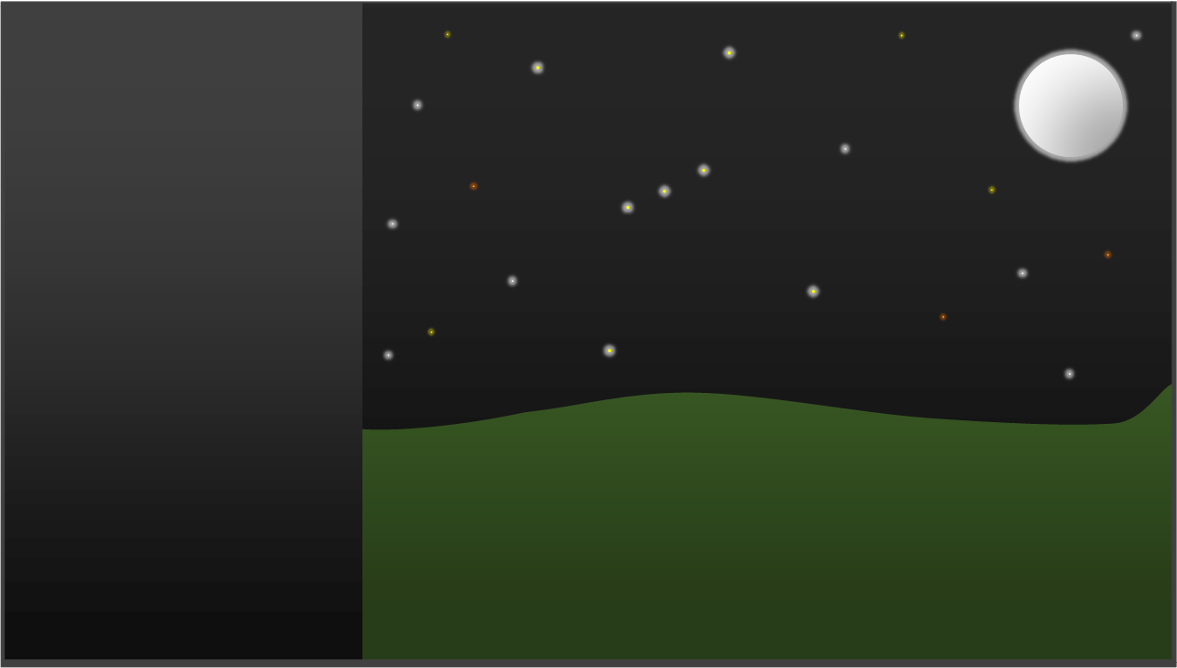
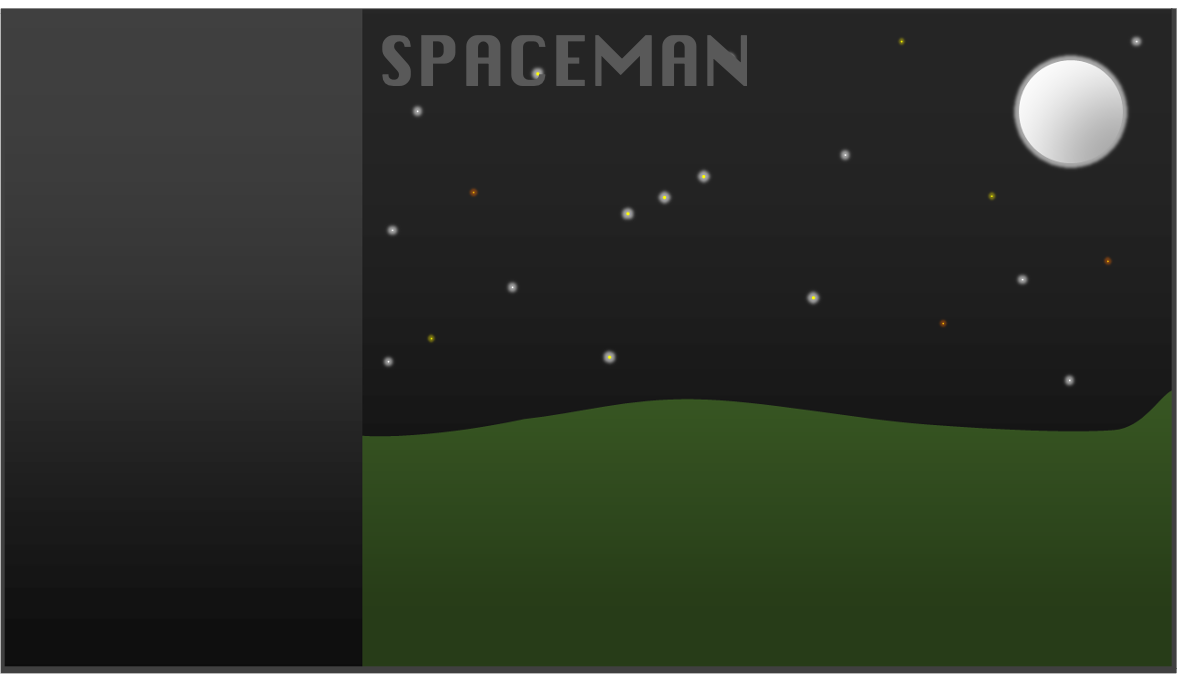
Add input textbox for words to guess andstart button

diff --git a/index.html b/index.html
@@ -37,7 +37,7 @@
         <div data-index="23" class="grayletter">X</div>
         <div data-index="24" class="grayletter">Y</div>
         <div data-index="25" class="grayletter">Z</div>
-        <div data-index="25" class="grayletter buildbutton">BUILD</div>
+        <button data-index="25" class="grayletter buildButton">BUILD</button>
     </div>
     <div>
         <img id="background" class"images" src="images/Background.png"/>
@@ -52,9 +52,12 @@
         <img id="window3" class"images" src="images/Window3.png"/>
         <img id="antenna" class"images" src="images/Antenna.png"/>
     </div>
-
+    <form>
+        <label class="startButton"for="wordToGuess">Enter Word</label><br>
+        <input class="startButton"type="text"><br>
+        <button class="startButton"type="button">Start</button>
+      </form>
     <div>Green Blocks</div>
 </body>
 </html>
-
 

diff --git a/css/styles.css b/css/styles.css
@@ -1,6 +1,6 @@
 
 body{
-    font-family: Calibri, sans-serif
+    font-family: Calibri, sans-serif;
 }
 *{
     box-sizing: border-box;
@@ -29,10 +29,21 @@ body{
     border: 3px solid black;
     z-index: 1;
 }
-.buildbutton{
+.buildButton{
     margin: 540px 168px;
     position: absolute;
     width: 145px;
+    background-color: red;
+    color: white;
+}
+
+.startButton{
+    text-align: center;
+    margin: 150px 380px;
+    position: absolute;
+    width: 350px;
+    color: red;
+    z-index: 2;
 }
 
 #background{
